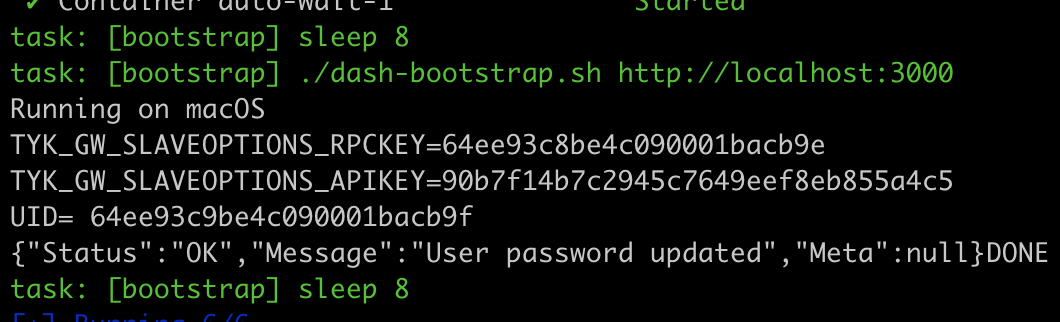
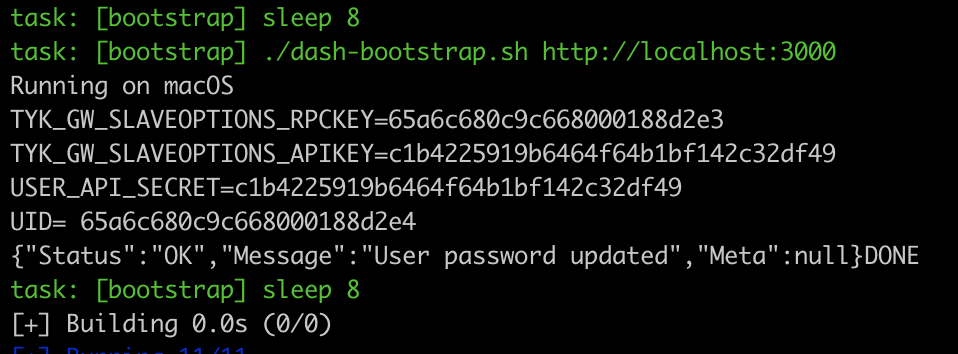
accomodate pro flavour

Changed region(s): [[0.0, 0.0, 0.999, 1.0], [0.6054, 0.0, 0.7265, 0.0311]]

diff --git a/auto/README.md b/auto/README.md
@@ -22,77 +22,161 @@ auto
 
 The configuration for the tyk components are provided via config files and env variables. The config files are used as the default configuration and behaviour can be overridden using environment variables in `confs/` or `local-*.env`.
 
-# Running tests locally
-## Pre-requisites
-- docker compose plugin or above (not docker-compose)
-- AWS integration account credentials
-- dashboard license (`export TYK_DB_LICENSEKEY=`)
-- mdcb license (`export TYK_MDCB_LICENSE=`)
+# Setup for local environment
 
-## How to login to AWS ECR
-You need an access token and a functional AWS CLI with the sub-account to publish, install, and delete packages in AWS ECR. There is [a note in OneLogin](https://tyk.onelogin.com/notes/108502) with the AWS credentials which have just enough privileges to push and pull from the registry as well as access to logs. Once you have the CLI functional, you can login with:
+## Step 1: AWS integration account credentials
+You need an access token and a functional AWS CLI with the sub-account to pull CI images from AWS ECR. There is [a confluence page](https://tyktech.atlassian.net/wiki/spaces/EN/pages/1683030062/AWS+SSO+How-to) that explains how to obtain and configure this credentials, also you may have to reach ITS if your user is not listed in order to get access granted to AWS integration account.
+Once you have your credentials ready and the CLI functional, you can login with:
 ``` shellsession
 % aws ecr get-login-password --region eu-central-1 | docker login --username AWS --password-stdin 754489498669.dkr.ecr.eu-central-1.amazonaws.com
 ```
 
-## Bring up an env | Option 1 : Manual alias
-This will bring up a Pro installation using the `master` branch for all components. It does not _build_ the images but relies on `release.yml` in the repo having already pushed the images to ECR. 
-``` shellsession
-# define an alias for later
-$ alias master="env_file=local-mongo44.env confs_dir=./pro docker compose -f pro.yml -f deps.yml -f mongo44.yml -p master --profile all --env-file master.env"
-$ cd auto
-$ master up -d
+## Step 2: Required software
+
+### Install docker compose plugin or above (not docker-compose)
+Follow the installation guide [here](https://docs.docker.com/compose/install/)
+
+### Python Setup
+Python is required for running the pytest framework. As of now, the required version is 3.7.16 (as specified in Pipfile). If you wish to maintain multiple Python versions on your laptop and switch among them, we recommend using Pyenv. Follow the instructions below for Pyenv installation on macOS.
+
+### Installing pyenv on macOS
+
+```bash
+##### Step 1: Install Homebrew
+# If you don't have Homebrew installed, run the following command in your terminal:
+
+/bin/bash -c "$(curl -fsSL https://raw.githubusercontent.com/Homebrew/install/HEAD/install.sh)" && brew install pyenv
+
+##### Step 2: Add pyenv to Shell
+# Add the following to your shell configuration file (e.g., `~/.bashrc`, `~/.zshrc`, or `~/.bash_profile`):
+
+export PATH="$HOME/.pyenv/bin:$PATH"
+eval "$(pyenv init --path)"
+eval "$(pyenv virtualenv-init -)"
+
+#Restart your shell or run `source <config-file>` to apply the changes.
+
+##### Step 3: Install required Python version
+pyenv install 3.7.16
+
+##### Step 4: Set Global Python Version
+pyenv global 3.7.16
+
+##### Step 5: Verify Installation
+python --version
 ```
 
-## Bring up an env | Option 2 : [Automated Task file](https://taskfile.dev/installation/)
-A bit of automation to allow easily pic diferent test scenarios.. This will bring up a Pro or Pro-HA installation using the `master` branch for all components. It does not _build_ the images but relies on `release.yml` in the repo having already pushed the images to ECR.
+You should see `Python 3.7.16` in the output.
+That's it! You've successfully installed `pyenv` on macOS and set the Python version to 3.7.16.
 
-### Prerequisite
+## Step 3: Prefill required environment variables
+Navigate to ci/auto/master.env and fill in the following variables: pull_policy, TYK_DB_LICENSEKEY, TYK_MDCB_LICENSE
+
+``` env
+pull_policy=always
+TYK_DB_LICENSEKEY=<PLACE A VALID DASHBOARD LICENSE HERE>
+TYK_MDCB_LICENSE=<PLACE A VALID MDCB LICENSE HERE>
+```
+
+## Step 4: Prepare docker for environment creation
+It's recommended to clean up your Docker environment before creating it for the first time. Run the following command to delete any dangling (unused) images, volumes, and containers:
+
+```bash
+docker system prune --volumes
+```
+
+# Run local environment : [Automated Task file](https://taskfile.dev/installation/)
+This automation simplifies selecting different test scenarios. It sets up a `Pro` or `Pro-HA` installation using the master branch for all components by default. Note that it does not build the images but relies on release.yml in the repo having already pushed the images to ECR.
+
+## Prerequisite
+### Install taskfile utility
 ```brew install go-task```
 
-### How to use
-Execute on the root folder
-#### Login
-```task login```
+### Export AWS credentials
+Execute the `## Step 1: AWS integration account credentials` setup guide step if you have not done so already.
 
-#### creates environment
-```task local FLAVOUR=pro DB=mongo44 VARIATION=murmur64```
+## How to use
+Navigate to the ci/auto folder and execute the following steps:
 
-#### destroys environment
-```task clean FLAVOUR=pro DB=mongo44 VARIATION=murmur64```
+### `Login`
+This step performs a docker login against the ECR private repository to download the required CI images.
+``` bash 
+task login
+```
+
+### `Create  yout first environment`
+Ensure no volumes are left created from older environments. You can do this using docker volume prune.
+``` bash
+task local FLAVOUR=pro DB=mongo44 VARIATION=murmur64
+```
+
+### `Destroy your environment`
+It's essential to use the same parameters used for creation while deleting the environment.
+``` bash
+task clean FLAVOUR=pro DB=mongo44 VARIATION=murmur64
+```
 
 ### Avilable combinations
-```
+These are all the available combinations. The framework can be extended easily for advanced users. New guides will be released for this subject during the adoption phase.
+``` bash
 DB = [mongo44, postgres15]
 VARIATION = [murmur64, sha256]
 FLAVOUR = [pro, pro-ha]
 ```
 
-## Run tests
-In the `tyk-automated-tests` repo, assuming that you are in a virtualenv with all its dependencies installed,
+# Run tests
+Tests are run locally by executing the **pytest** framework binary from your CLI. This allows you to develop or change the tests locally without the need to generate a new image for **tyk-automated-tests**, which is used during remote execution on GitHub. To run the tests, you need to set up pytest along with pipenv to hit the multiple endpoints of the compose environment containers.
+
+## Pytest Setup
+Execute the following inside the `tyk-automated-tests` repo root folder
+``` bash
+pip install pipenv
+cd ci/auto
+pipenv install
+pipenv shell
+export USER_API_SECRET=<VALUE TAKEN FROM BOOTSTRAP OUTPUT ON ENV CREATE>
+```
+
+While deploying a `FLAVOUR=pro-ha` environment is crucial to export the `USER_API_SECRET` variable before executing any test. This variable is used by the **pytest** framework tests to send authorized request to the dashboard.
+
+![Alt text](image.png)
+
+## Pytest Run
+Usage:
 ``` shellsession
 $ pytest -c pytest_local.ini --ci [ DIR | FILE | -m "markers" | -k "test_name" ]
 ```
+The trick is to determine which tests to run. You can find the available markers in any of the `pytest.ini` files at the root of the repo. These markers group tests based on the product.
 
-### Examples
-If you want to test over pro-ha environment you need to collect and export the value of `TYK_GW_SLAVEOPTIONS_APIKEY`
-which outputs on environment UP bootstrap.sh 
+``` shell
+markers =
+    local: marks tests which can be executed only on local
+    mdcb: marks tests which can be executed only on mdcb
+    sql: marks tests which cannot run on sql env
+    gw: marks tests which can be executed only on gateway
+    dash_admin: marks tests which can be executed for dashboard admin api
+    dash_api: marks tests which can be executed for dashboard api
+    graphql: marks tests which can be executed for testing graphql features
+    portal: marks tests which can be executed for testing portal
+    dind: marks tests which use docker in docker for assertion
+```
 
-<img src="image.png" alt="Alt Text" width="700" height="200">
+## Examples
+The following examples guide you on how to mix and match variations. The combinations deployed remotely on GitHub are `FLAVOUR=pro-ha` `DB=postgres15` and `FLAVOUR=pro-ha` `DB=mongo44` as of today. To reproduce the same tests locally, use examples **#3** and **#4** but keep in mind you need to create the environments accordingly.
 
-``` shellsession
-# Example for full test on pro environment with mongo
+``` bash
+# Example #1 for full test on FLAVOUR=pro DB=mongo44 (not very usual)
 $ pytest -c pytest_local.ini --ci -m "not local and not dind and not mdcb"
 
-# Example for full test on pro environment with sql
+# Example #2 for full test on FLAVOUR=pro DB=postgres15 (not very usual)
 $ pytest -c pytest_local.ini --ci -m "not local and not dind and not mdcb and not sql"
 
-# Example for full test on pro-ha environment with mongo
-$ export USER_API_SECRET=${TYK_GW_SLAVEOPTIONS_APIKEY}
+# Example #3 for full test on FLAVOUR=pro-ha DB=mongo44 (LIVE ON-GITHUB)
+$ export USER_API_SECRET=<COPY VALUE FROM BOOTSTRAP OUTPUT>
 $ pytest -c pytest_local.ini --ci -m "not local and not dind"
 
-# Example for full test on pro-ha environment with sql
-$ export USER_API_SECRET=${TYK_GW_SLAVEOPTIONS_APIKEY}
+# Example #4 for full test on FLAVOUR=pro-ha DB=postgres15 (LIVE ON-GITHUB)
+$ export USER_API_SECRET=<COPY VALUE FROM BOOTSTRAP OUTPUT>
 $ pytest -c pytest_local.ini --ci -m "not local and not dind and not sql"
 
 ```
